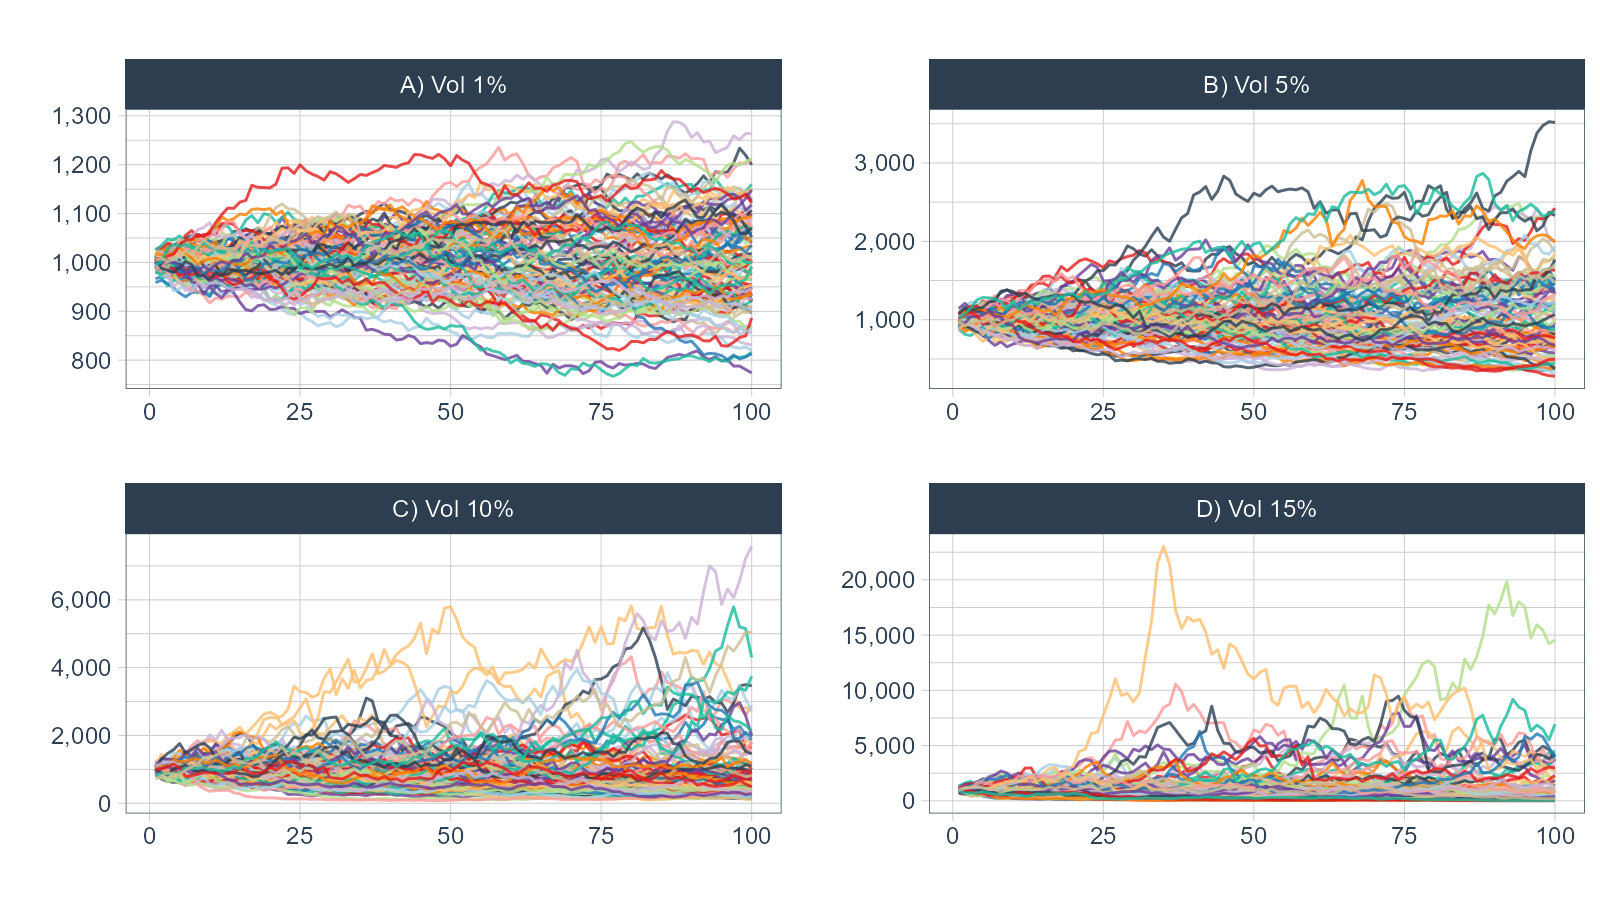
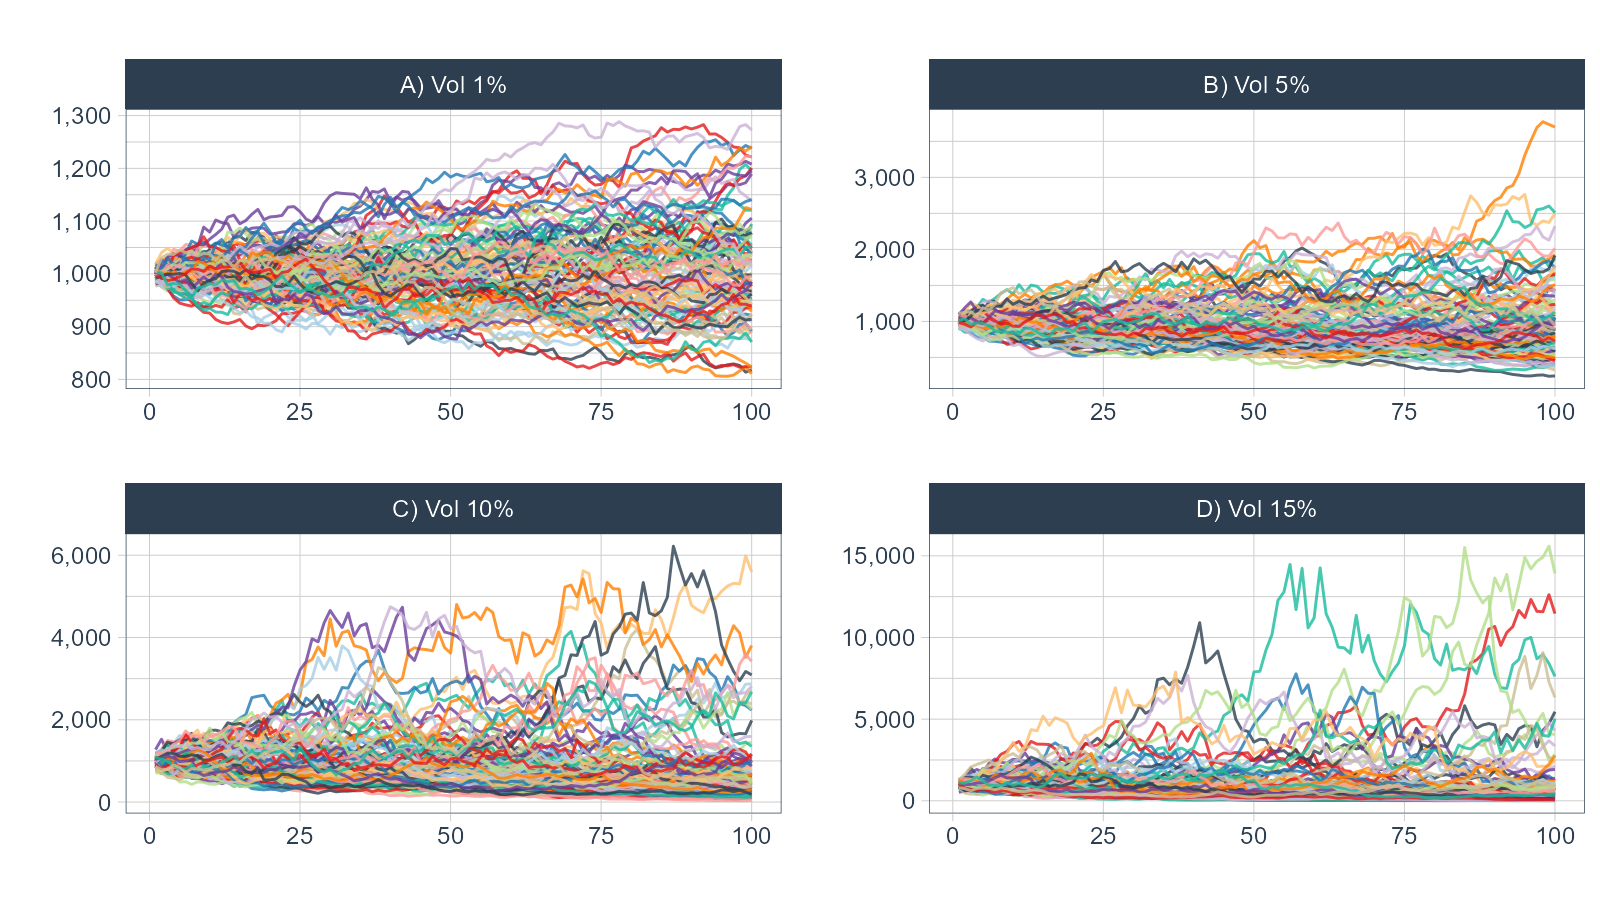
site update

diff --git a/docs/reference/ts_calendar_heatmap_plt.html b/docs/reference/ts_calendar_heatmap_plt.html
@@ -1,0 +1,290 @@
+<!-- Generated by pkgdown: do not edit by hand -->
+<!DOCTYPE html>
+<html lang="en">
+  <head>
+  <meta charset="utf-8">
+<meta http-equiv="X-UA-Compatible" content="IE=edge">
+<meta name="viewport" content="width=device-width, initial-scale=1.0">
+
+<title>Time Series Calendar Heatmap — ts_calendar_heatmap_plt • healthyR.ts</title>
+
+
+<!-- jquery -->
+<script src="https://cdnjs.cloudflare.com/ajax/libs/jquery/3.4.1/jquery.min.js" integrity="sha256-CSXorXvZcTkaix6Yvo6HppcZGetbYMGWSFlBw8HfCJo=" crossorigin="anonymous"></script>
+<!-- Bootstrap -->
+<link href="https://cdnjs.cloudflare.com/ajax/libs/bootswatch/3.4.0/flatly/bootstrap.min.css" rel="stylesheet" crossorigin="anonymous" />
+
+
+<script src="https://cdnjs.cloudflare.com/ajax/libs/twitter-bootstrap/3.4.1/js/bootstrap.min.js" integrity="sha256-nuL8/2cJ5NDSSwnKD8VqreErSWHtnEP9E7AySL+1ev4=" crossorigin="anonymous"></script>
+
+<!-- bootstrap-toc -->
+<link rel="stylesheet" href="../bootstrap-toc.css">
+<script src="../bootstrap-toc.js"></script>
+
+<!-- Font Awesome icons -->
+<link rel="stylesheet" href="https://cdnjs.cloudflare.com/ajax/libs/font-awesome/5.12.1/css/all.min.css" integrity="sha256-mmgLkCYLUQbXn0B1SRqzHar6dCnv9oZFPEC1g1cwlkk=" crossorigin="anonymous" />
+<link rel="stylesheet" href="https://cdnjs.cloudflare.com/ajax/libs/font-awesome/5.12.1/css/v4-shims.min.css" integrity="sha256-wZjR52fzng1pJHwx4aV2AO3yyTOXrcDW7jBpJtTwVxw=" crossorigin="anonymous" />
+
+<!-- clipboard.js -->
+<script src="https://cdnjs.cloudflare.com/ajax/libs/clipboard.js/2.0.6/clipboard.min.js" integrity="sha256-inc5kl9MA1hkeYUt+EC3BhlIgyp/2jDIyBLS6k3UxPI=" crossorigin="anonymous"></script>
+
+<!-- headroom.js -->
+<script src="https://cdnjs.cloudflare.com/ajax/libs/headroom/0.11.0/headroom.min.js" integrity="sha256-AsUX4SJE1+yuDu5+mAVzJbuYNPHj/WroHuZ8Ir/CkE0=" crossorigin="anonymous"></script>
+<script src="https://cdnjs.cloudflare.com/ajax/libs/headroom/0.11.0/jQuery.headroom.min.js" integrity="sha256-ZX/yNShbjqsohH1k95liqY9Gd8uOiE1S4vZc+9KQ1K4=" crossorigin="anonymous"></script>
+
+<!-- pkgdown -->
+<link href="../pkgdown.css" rel="stylesheet">
+<script src="../pkgdown.js"></script>
+
+
+
+
+<meta property="og:title" content="Time Series Calendar Heatmap — ts_calendar_heatmap_plt" />
+<meta property="og:description" content="Takes in data that has been aggregated to the day level and makes a calendar
+heatmap." />
+
+
+
+
+<!-- mathjax -->
+<script src="https://cdnjs.cloudflare.com/ajax/libs/mathjax/2.7.5/MathJax.js" integrity="sha256-nvJJv9wWKEm88qvoQl9ekL2J+k/RWIsaSScxxlsrv8k=" crossorigin="anonymous"></script>
+<script src="https://cdnjs.cloudflare.com/ajax/libs/mathjax/2.7.5/config/TeX-AMS-MML_HTMLorMML.js" integrity="sha256-84DKXVJXs0/F8OTMzX4UR909+jtl4G7SPypPavF+GfA=" crossorigin="anonymous"></script>
+
+<!--[if lt IE 9]>
+<script src="https://oss.maxcdn.com/html5shiv/3.7.3/html5shiv.min.js"></script>
+<script src="https://oss.maxcdn.com/respond/1.4.2/respond.min.js"></script>
+<![endif]-->
+
+
+<!-- Global site tag (gtag.js) - Google Analytics -->
+<script async src="https://www.googletagmanager.com/gtag/js?id=G-HKLXBY9V6J"></script>
+<script>
+  window.dataLayer = window.dataLayer || [];
+  function gtag(){dataLayer.push(arguments);}
+  gtag('js', new Date());
+
+  gtag('config', 'G-HKLXBY9V6J');
+</script>
+
+
+  </head>
+
+  <body data-spy="scroll" data-target="#toc">
+    <div class="container template-reference-topic">
+      <header>
+      <div class="navbar navbar-default navbar-fixed-top" role="navigation">
+  <div class="container">
+    <div class="navbar-header">
+      <button type="button" class="navbar-toggle collapsed" data-toggle="collapse" data-target="#navbar" aria-expanded="false">
+        <span class="sr-only">Toggle navigation</span>
+        <span class="icon-bar"></span>
+        <span class="icon-bar"></span>
+        <span class="icon-bar"></span>
+      </button>
+      <span class="navbar-brand">
+        <a class="navbar-link" href="../index.html">healthyR.ts</a>
+        <span class="version label label-default" data-toggle="tooltip" data-placement="bottom" title="Released version">0.1.2.9000</span>
+      </span>
+    </div>
+
+    <div id="navbar" class="navbar-collapse collapse">
+      <ul class="nav navbar-nav">
+        <li>
+  <a href="../index.html">
+    <span class="fa fa-home"></span>
+     
+  </a>
+</li>
+<li class="dropdown">
+  <a href="#" class="dropdown-toggle" data-toggle="dropdown" role="button" aria-expanded="false">
+    Documentation
+     
+    <span class="caret"></span>
+  </a>
+  <ul class="dropdown-menu" role="menu">
+    <li class="dropdown-header">Getting Started</li>
+    <li>
+      <a href="../articles/getting-started.html">Getting Started with healthyR.ts</a>
+    </li>
+  </ul>
+</li>
+<li>
+  <a href="../reference/index.html">Reference</a>
+</li>
+<li>
+  <a href="../news/index.html">News</a>
+</li>
+      </ul>
+      <ul class="nav navbar-nav navbar-right">
+        <li>
+  <a href="https://github.com/spsanderson/healthyR.ts/">
+    <span class="fab fa-github fa-lg"></span>
+     
+  </a>
+</li>
+      </ul>
+      
+    </div><!--/.nav-collapse -->
+  </div><!--/.container -->
+</div><!--/.navbar -->
+
+      
+
+      </header>
+
+<div class="row">
+  <div class="col-md-9 contents">
+    <div class="page-header">
+    <h1>Time Series Calendar Heatmap</h1>
+    <small class="dont-index">Source: <a href='https://github.com/spsanderson/healthyR.ts/blob/master/R/ts-calendar-heatmap-plt.R'><code>R/ts-calendar-heatmap-plt.R</code></a></small>
+    <div class="hidden name"><code>ts_calendar_heatmap_plt.Rd</code></div>
+    </div>
+
+    <div class="ref-description">
+    <p>Takes in data that has been aggregated to the day level and makes a calendar
+heatmap.</p>
+    </div>
+
+    <pre class="usage"><span class='fu'>ts_calendar_heatmap_plt</span><span class='op'>(</span>
+  <span class='va'>.data</span>,
+  <span class='va'>.date_col</span>,
+  <span class='va'>.value_col</span>,
+  .low <span class='op'>=</span> <span class='st'>"red"</span>,
+  .high <span class='op'>=</span> <span class='st'>"green"</span>,
+  .plt_title <span class='op'>=</span> <span class='st'>""</span>,
+  .interactive <span class='op'>=</span> <span class='cn'>TRUE</span>
+<span class='op'>)</span></pre>
+
+    <h2 class="hasAnchor" id="arguments"><a class="anchor" href="#arguments"></a>Arguments</h2>
+    <table class="ref-arguments">
+    <colgroup><col class="name" /><col class="desc" /></colgroup>
+    <tr>
+      <th>.data</th>
+      <td><p>The time-series data with a date column and value column.</p></td>
+    </tr>
+    <tr>
+      <th>.date_col</th>
+      <td><p>The column that has the datetime values</p></td>
+    </tr>
+    <tr>
+      <th>.value_col</th>
+      <td><p>The column that has the values</p></td>
+    </tr>
+    <tr>
+      <th>.low</th>
+      <td><p>The color for the low value, must be quoted like "red". The default is "red"</p></td>
+    </tr>
+    <tr>
+      <th>.high</th>
+      <td><p>The color for the high value, must be quoted like "green". The default is "green"</p></td>
+    </tr>
+    <tr>
+      <th>.plt_title</th>
+      <td><p>The title of the plot</p></td>
+    </tr>
+    <tr>
+      <th>.interactive</th>
+      <td><p>Default is TRUE to get an interactive plot using <code><a href='https://docs.ropensci.org/plotly/reference/ggplotly.html'>plotly::ggplotly()</a></code>.
+It can be set to FALSE to get a ggplot plot.</p></td>
+    </tr>
+    </table>
+
+    <h2 class="hasAnchor" id="value"><a class="anchor" href="#value"></a>Value</h2>
+
+    <p>A ggplot2 plot or if interactive a plotly plot</p>
+    <h2 class="hasAnchor" id="details"><a class="anchor" href="#details"></a>Details</h2>
+
+    <p>The data provided must have been aggregated to the day level, if not funky
+output could result and it is possible nothing will be output but errors.
+There must be a date column and a value column, those are the only items
+required for this function to work.</p>
+<p>This function is intentionally inflexible, it complains more and does less in
+order to force the user to supply a clean data-set.</p>
+    <h2 class="hasAnchor" id="author"><a class="anchor" href="#author"></a>Author</h2>
+
+    <p>Steven P. Sanderson II, MPH</p>
+
+    <h2 class="hasAnchor" id="examples"><a class="anchor" href="#examples"></a>Examples</h2>
+    <pre class="examples"><div class='input'><span class='fu'><a href='https://rdrr.io/r/base/message.html'>suppressPackageStartupMessages</a></span><span class='op'>(</span><span class='kw'><a href='https://rdrr.io/r/base/library.html'>library</a></span><span class='op'>(</span><span class='va'><a href='https://dplyr.tidyverse.org'>dplyr</a></span><span class='op'>)</span><span class='op'>)</span>
+<span class='fu'><a href='https://rdrr.io/r/base/message.html'>suppressPackageStartupMessages</a></span><span class='op'>(</span><span class='kw'><a href='https://rdrr.io/r/base/library.html'>library</a></span><span class='op'>(</span><span class='va'><a href='https://ggplot2.tidyverse.org'>ggplot2</a></span><span class='op'>)</span><span class='op'>)</span>
+<span class='fu'><a href='https://rdrr.io/r/base/message.html'>suppressPackageStartupMessages</a></span><span class='op'>(</span><span class='kw'><a href='https://rdrr.io/r/base/library.html'>library</a></span><span class='op'>(</span><span class='va'><a href='https://github.com/business-science/timetk'>timetk</a></span><span class='op'>)</span><span class='op'>)</span>
+<span class='fu'><a href='https://rdrr.io/r/base/message.html'>suppressPackageStartupMessages</a></span><span class='op'>(</span><span class='kw'><a href='https://rdrr.io/r/base/library.html'>library</a></span><span class='op'>(</span><span class='va'><a href='https://lubridate.tidyverse.org'>lubridate</a></span><span class='op'>)</span><span class='op'>)</span>
+<span class='fu'><a href='https://rdrr.io/r/base/message.html'>suppressPackageStartupMessages</a></span><span class='op'>(</span><span class='kw'><a href='https://rdrr.io/r/base/library.html'>library</a></span><span class='op'>(</span><span class='va'><a href='https://zoo.R-Forge.R-project.org/'>zoo</a></span><span class='op'>)</span><span class='op'>)</span>
+<span class='fu'><a href='https://rdrr.io/r/base/message.html'>suppressPackageStartupMessages</a></span><span class='op'>(</span><span class='kw'><a href='https://rdrr.io/r/base/library.html'>library</a></span><span class='op'>(</span><span class='va'><a href='https://github.com/spsanderson/healthyR.data'>healthyR.data</a></span><span class='op'>)</span><span class='op'>)</span>
+<span class='fu'><a href='https://rdrr.io/r/base/message.html'>suppressPackageStartupMessages</a></span><span class='op'>(</span><span class='kw'><a href='https://rdrr.io/r/base/library.html'>library</a></span><span class='op'>(</span><span class='va'><a href='https://stringi.gagolewski.com/'>stringi</a></span><span class='op'>)</span><span class='op'>)</span>
+<span class='fu'><a href='https://rdrr.io/r/base/message.html'>suppressPackageStartupMessages</a></span><span class='op'>(</span><span class='kw'><a href='https://rdrr.io/r/base/library.html'>library</a></span><span class='op'>(</span><span class='va'><a href='https://plotly-r.com'>plotly</a></span><span class='op'>)</span><span class='op'>)</span>
+<span class='fu'><a href='https://rdrr.io/r/base/message.html'>suppressPackageStartupMessages</a></span><span class='op'>(</span><span class='kw'><a href='https://rdrr.io/r/base/library.html'>library</a></span><span class='op'>(</span><span class='va'><a href='http://purrr.tidyverse.org'>purrr</a></span><span class='op'>)</span><span class='op'>)</span>
+<span class='fu'><a href='https://rdrr.io/r/base/message.html'>suppressPackageStartupMessages</a></span><span class='op'>(</span><span class='kw'><a href='https://rdrr.io/r/base/library.html'>library</a></span><span class='op'>(</span><span class='va'><a href='https://forcats.tidyverse.org'>forcats</a></span><span class='op'>)</span><span class='op'>)</span>
+
+<span class='va'>data</span> <span class='op'>&lt;-</span> <span class='va'>healthyR_data</span> <span class='op'>%&gt;%</span>
+   <span class='fu'><a href='https://dplyr.tidyverse.org/reference/filter.html'>filter</a></span><span class='op'>(</span><span class='va'>ip_op_flag</span> <span class='op'>==</span> <span class='st'>"O"</span><span class='op'>)</span> <span class='op'>%&gt;%</span>
+   <span class='fu'><a href='https://dplyr.tidyverse.org/reference/filter.html'>filter</a></span><span class='op'>(</span><span class='fu'><a href='https://rdrr.io/r/base/substr.html'>substr</a></span><span class='op'>(</span><span class='va'>visit_id</span>, <span class='fl'>1</span>, <span class='fl'>1</span><span class='op'>)</span> <span class='op'>==</span> <span class='st'>"8"</span><span class='op'>)</span> <span class='op'>%&gt;%</span>
+   <span class='fu'><a href='https://dplyr.tidyverse.org/reference/select.html'>select</a></span><span class='op'>(</span><span class='va'>visit_start_date_time</span><span class='op'>)</span> <span class='op'>%&gt;%</span>
+   <span class='fu'><a href='https://rdrr.io/pkg/timetk/man/filter_by_time.html'>filter_by_time</a></span><span class='op'>(</span>
+       .date_var     <span class='op'>=</span> <span class='va'>visit_start_date_time</span>
+       , .start_date <span class='op'>=</span> <span class='st'>"2014"</span>
+       , .end_date   <span class='op'>=</span> <span class='st'>"2016"</span>
+   <span class='op'>)</span> <span class='op'>%&gt;%</span>
+   <span class='fu'><a href='https://rdrr.io/pkg/timetk/man/summarise_by_time.html'>summarise_by_time</a></span><span class='op'>(</span>
+       .date_var <span class='op'>=</span> <span class='va'>visit_start_date_time</span>
+       , value   <span class='op'>=</span> <span class='fu'><a href='https://dplyr.tidyverse.org/reference/context.html'>n</a></span><span class='op'>(</span><span class='op'>)</span>
+   <span class='op'>)</span> <span class='op'>%&gt;%</span>
+   <span class='fu'><a href='https://purrr.tidyverse.org/reference/set_names.html'>set_names</a></span><span class='op'>(</span><span class='st'>"date_col"</span>,<span class='st'>"value"</span><span class='op'>)</span> <span class='op'>%&gt;%</span>
+   <span class='fu'><a href='https://rdrr.io/pkg/timetk/man/tk_augment_timeseries.html'>tk_augment_timeseries_signature</a></span><span class='op'>(</span>.date_var <span class='op'>=</span> <span class='va'>date_col</span><span class='op'>)</span> <span class='op'>%&gt;%</span>
+   <span class='fu'><a href='https://dplyr.tidyverse.org/reference/select.html'>select</a></span><span class='op'>(</span>
+       <span class='va'>date_col</span>
+       , <span class='va'>value</span>
+       , <span class='va'>year</span>
+       , <span class='va'>month</span>
+       , <span class='va'>week</span>
+       , <span class='va'>wday.lbl</span>
+   <span class='op'>)</span> <span class='op'>%&gt;%</span>
+   <span class='fu'><a href='https://dplyr.tidyverse.org/reference/mutate.html'>mutate</a></span><span class='op'>(</span>yearmonth_fct <span class='op'>=</span> <span class='fu'><a href='https://rdrr.io/pkg/zoo/man/yearmon.html'>as.yearmon</a></span><span class='op'>(</span><span class='va'>date_col</span><span class='op'>)</span> <span class='op'>%&gt;%</span> <span class='fu'><a href='https://rdrr.io/r/base/factor.html'>factor</a></span><span class='op'>(</span><span class='op'>)</span><span class='op'>)</span> <span class='op'>%&gt;%</span>
+   <span class='fu'><a href='https://dplyr.tidyverse.org/reference/mutate.html'>mutate</a></span><span class='op'>(</span>wday.lbl <span class='op'>=</span> <span class='fu'><a href='https://forcats.tidyverse.org/reference/fct_rev.html'>fct_rev</a></span><span class='op'>(</span><span class='va'>wday.lbl</span><span class='op'>)</span><span class='op'>)</span> <span class='op'>%&gt;%</span>
+   <span class='fu'><a href='https://dplyr.tidyverse.org/reference/select.html'>select</a></span><span class='op'>(</span><span class='va'>date_col</span>, <span class='va'>year</span>, <span class='va'>yearmonth_fct</span>, <span class='fu'><a href='https://tidyselect.r-lib.org/reference/everything.html'>everything</a></span><span class='op'>(</span><span class='op'>)</span><span class='op'>)</span> <span class='op'>%&gt;%</span>
+   <span class='fu'><a href='https://dplyr.tidyverse.org/reference/arrange.html'>arrange</a></span><span class='op'>(</span><span class='va'>date_col</span><span class='op'>)</span> <span class='op'>%&gt;%</span>
+   <span class='fu'><a href='https://dplyr.tidyverse.org/reference/mutate.html'>mutate</a></span><span class='op'>(</span>week_of_month <span class='op'>=</span> <span class='fu'><a href='https://rdrr.io/pkg/stringi/man/stri_datetime_fields.html'>stri_datetime_fields</a></span><span class='op'>(</span><span class='va'>date_col</span><span class='op'>)</span><span class='op'>$</span><span class='va'>WeekOfMonth</span><span class='op'>)</span> <span class='op'>%&gt;%</span>
+   <span class='fu'><a href='https://dplyr.tidyverse.org/reference/rename.html'>rename</a></span><span class='op'>(</span><span class='st'>"week_day"</span> <span class='op'>=</span> <span class='st'>"wday.lbl"</span><span class='op'>)</span>
+
+<span class='fu'>ts_calendar_heatmap_plt</span><span class='op'>(</span>
+  .data        <span class='op'>=</span> <span class='va'>data</span>
+  , .date_col  <span class='op'>=</span> <span class='va'>date_col</span>
+  , .value_col <span class='op'>=</span> <span class='va'>value</span>
+<span class='op'>)</span>
+
+<span class='fu'>ts_calendar_heatmap_plt</span><span class='op'>(</span>
+  .data          <span class='op'>=</span> <span class='va'>data</span>
+  , .date_col    <span class='op'>=</span> <span class='va'>date_col</span>
+  , .value_col   <span class='op'>=</span> <span class='va'>value</span>
+  , .interactive <span class='op'>=</span> <span class='cn'>FALSE</span>
+<span class='op'>)</span>
+</div><div class='img'><img src='ts_calendar_heatmap_plt-1.png' alt='' width='700' height='433' /></div><div class='input'>
+</div></pre>
+  </div>
+  <div class="col-md-3 hidden-xs hidden-sm" id="pkgdown-sidebar">
+    <nav id="toc" data-toggle="toc" class="sticky-top">
+      <h2 data-toc-skip>Contents</h2>
+    </nav>
+  </div>
+</div>
+
+
+      <footer>
+      <div class="copyright">
+  <p>Developed by Steven Sanderson.</p>
+</div>
+
+<div class="pkgdown">
+  <p>Site built with <a href="https://pkgdown.r-lib.org/">pkgdown</a> 1.6.1.</p>
+</div>
+
+      </footer>
+   </div>
+
+  
+
+
+  </body>
+</html>
+
+

diff --git a/docs/articles/getting-started.html b/docs/articles/getting-started.html
@@ -93,7 +93,7 @@
             <h3 class="subtitle">A Quick Introduction</h3>
                         <h4 class="author">Steven P. Sanderson II, MPH</h4>
             
-            <h4 class="date">2021-08-11</h4>
+            <h4 class="date">2021-08-13</h4>
       
       <small class="dont-index">Source: <a href="https://github.com/spsanderson/healthyR.ts/blob/master/vignettes/getting-started.Rmd"><code>vignettes/getting-started.Rmd</code></a></small>
       <div class="hidden name"><code>getting-started.Rmd</code></div>
@@ -112,21 +112,21 @@
 <code class="sourceCode R"><span class="va">df</span> <span class="op">&lt;-</span> <span class="fu"><a href="../reference/ts_random_walk.html">ts_random_walk</a></span><span class="op">(</span><span class="op">)</span>
 <span class="fu"><a href="https://rdrr.io/r/utils/head.html">head</a></span><span class="op">(</span><span class="va">df</span><span class="op">)</span>
 <span class="co">#&gt; # A tibble: 6 x 4</span>
-<span class="co">#&gt;     run     x        y cum_y</span>
-<span class="co">#&gt;   &lt;dbl&gt; &lt;dbl&gt;    &lt;dbl&gt; &lt;dbl&gt;</span>
-<span class="co">#&gt; 1     1     1  0.0137  1014.</span>
-<span class="co">#&gt; 2     1     2  0.0290  1043.</span>
-<span class="co">#&gt; 3     1     3 -0.00441 1039.</span>
-<span class="co">#&gt; 4     1     4  0.0107  1050.</span>
-<span class="co">#&gt; 5     1     5  0.177   1235.</span>
-<span class="co">#&gt; 6     1     6 -0.0169  1214.</span>
+<span class="co">#&gt;     run     x       y cum_y</span>
+<span class="co">#&gt;   &lt;dbl&gt; &lt;dbl&gt;   &lt;dbl&gt; &lt;dbl&gt;</span>
+<span class="co">#&gt; 1     1     1 -0.0736  926.</span>
+<span class="co">#&gt; 2     1     2  0.0420  965.</span>
+<span class="co">#&gt; 3     1     3 -0.0946  874.</span>
+<span class="co">#&gt; 4     1     4  0.108   969.</span>
+<span class="co">#&gt; 5     1     5  0.0880 1054.</span>
+<span class="co">#&gt; 6     1     6 -0.240   801.</span>
 <span class="fu"><a href="https://pillar.r-lib.org/reference/glimpse.html">glimpse</a></span><span class="op">(</span><span class="va">df</span><span class="op">)</span>
 <span class="co">#&gt; Rows: 10,000</span>
 <span class="co">#&gt; Columns: 4</span>
 <span class="co">#&gt; $ run   &lt;dbl&gt; 1, 1, 1, 1, 1, 1, 1, 1, 1, 1, 1, 1, 1, 1, 1, 1, 1, 1, 1, 1, 1, 1~</span>
 <span class="co">#&gt; $ x     &lt;dbl&gt; 1, 2, 3, 4, 5, 6, 7, 8, 9, 10, 11, 12, 13, 14, 15, 16, 17, 18, 1~</span>
-<span class="co">#&gt; $ y     &lt;dbl&gt; 0.013734461, 0.028976726, -0.004413731, 0.010736748, 0.176903927~</span>
-<span class="co">#&gt; $ cum_y &lt;dbl&gt; 1013.734, 1043.109, 1038.505, 1049.655, 1235.343, 1214.431, 1385~</span></code></pre></div>
+<span class="co">#&gt; $ y     &lt;dbl&gt; -0.073623651, 0.041974648, -0.094573243, 0.108288328, 0.08795222~</span>
+<span class="co">#&gt; $ cum_y &lt;dbl&gt; 926.3763, 965.2607, 873.9728, 968.6139, 1053.8056, 801.0260, 839~</span></code></pre></div>
 <p>Now that the data has been generated, lets take a look at it.</p>
 <div class="sourceCode" id="cb3"><pre class="downlit sourceCode r">
 <code class="sourceCode R"><span class="va">df</span> <span class="op">%&gt;%</span>

diff --git a/docs/news/index.html b/docs/news/index.html
@@ -156,6 +156,7 @@
 </li>
 <li>Fix <a href='https://github.com/spsanderson/healthyR.ts/issues/47'>#47</a> - Add <code>model_extraction</code> helper function</li>
 <li>Fix <a href='https://github.com/spsanderson/healthyR.ts/issues/51'>#51</a> - Add <code>ts_ma_plot</code> plotting function</li>
+<li>Fix <a href='https://github.com/spsanderson/healthyR.ts/issues/59'>#59</a> - Add <code><a href="../reference/ts_calendar_heatmap_plt.html">ts_calendar_heatmap_plt()</a></code> plotting function</li>
 </ol>
 </div>
 <div id="minor-fixes-and-improvements" class="section level2">
